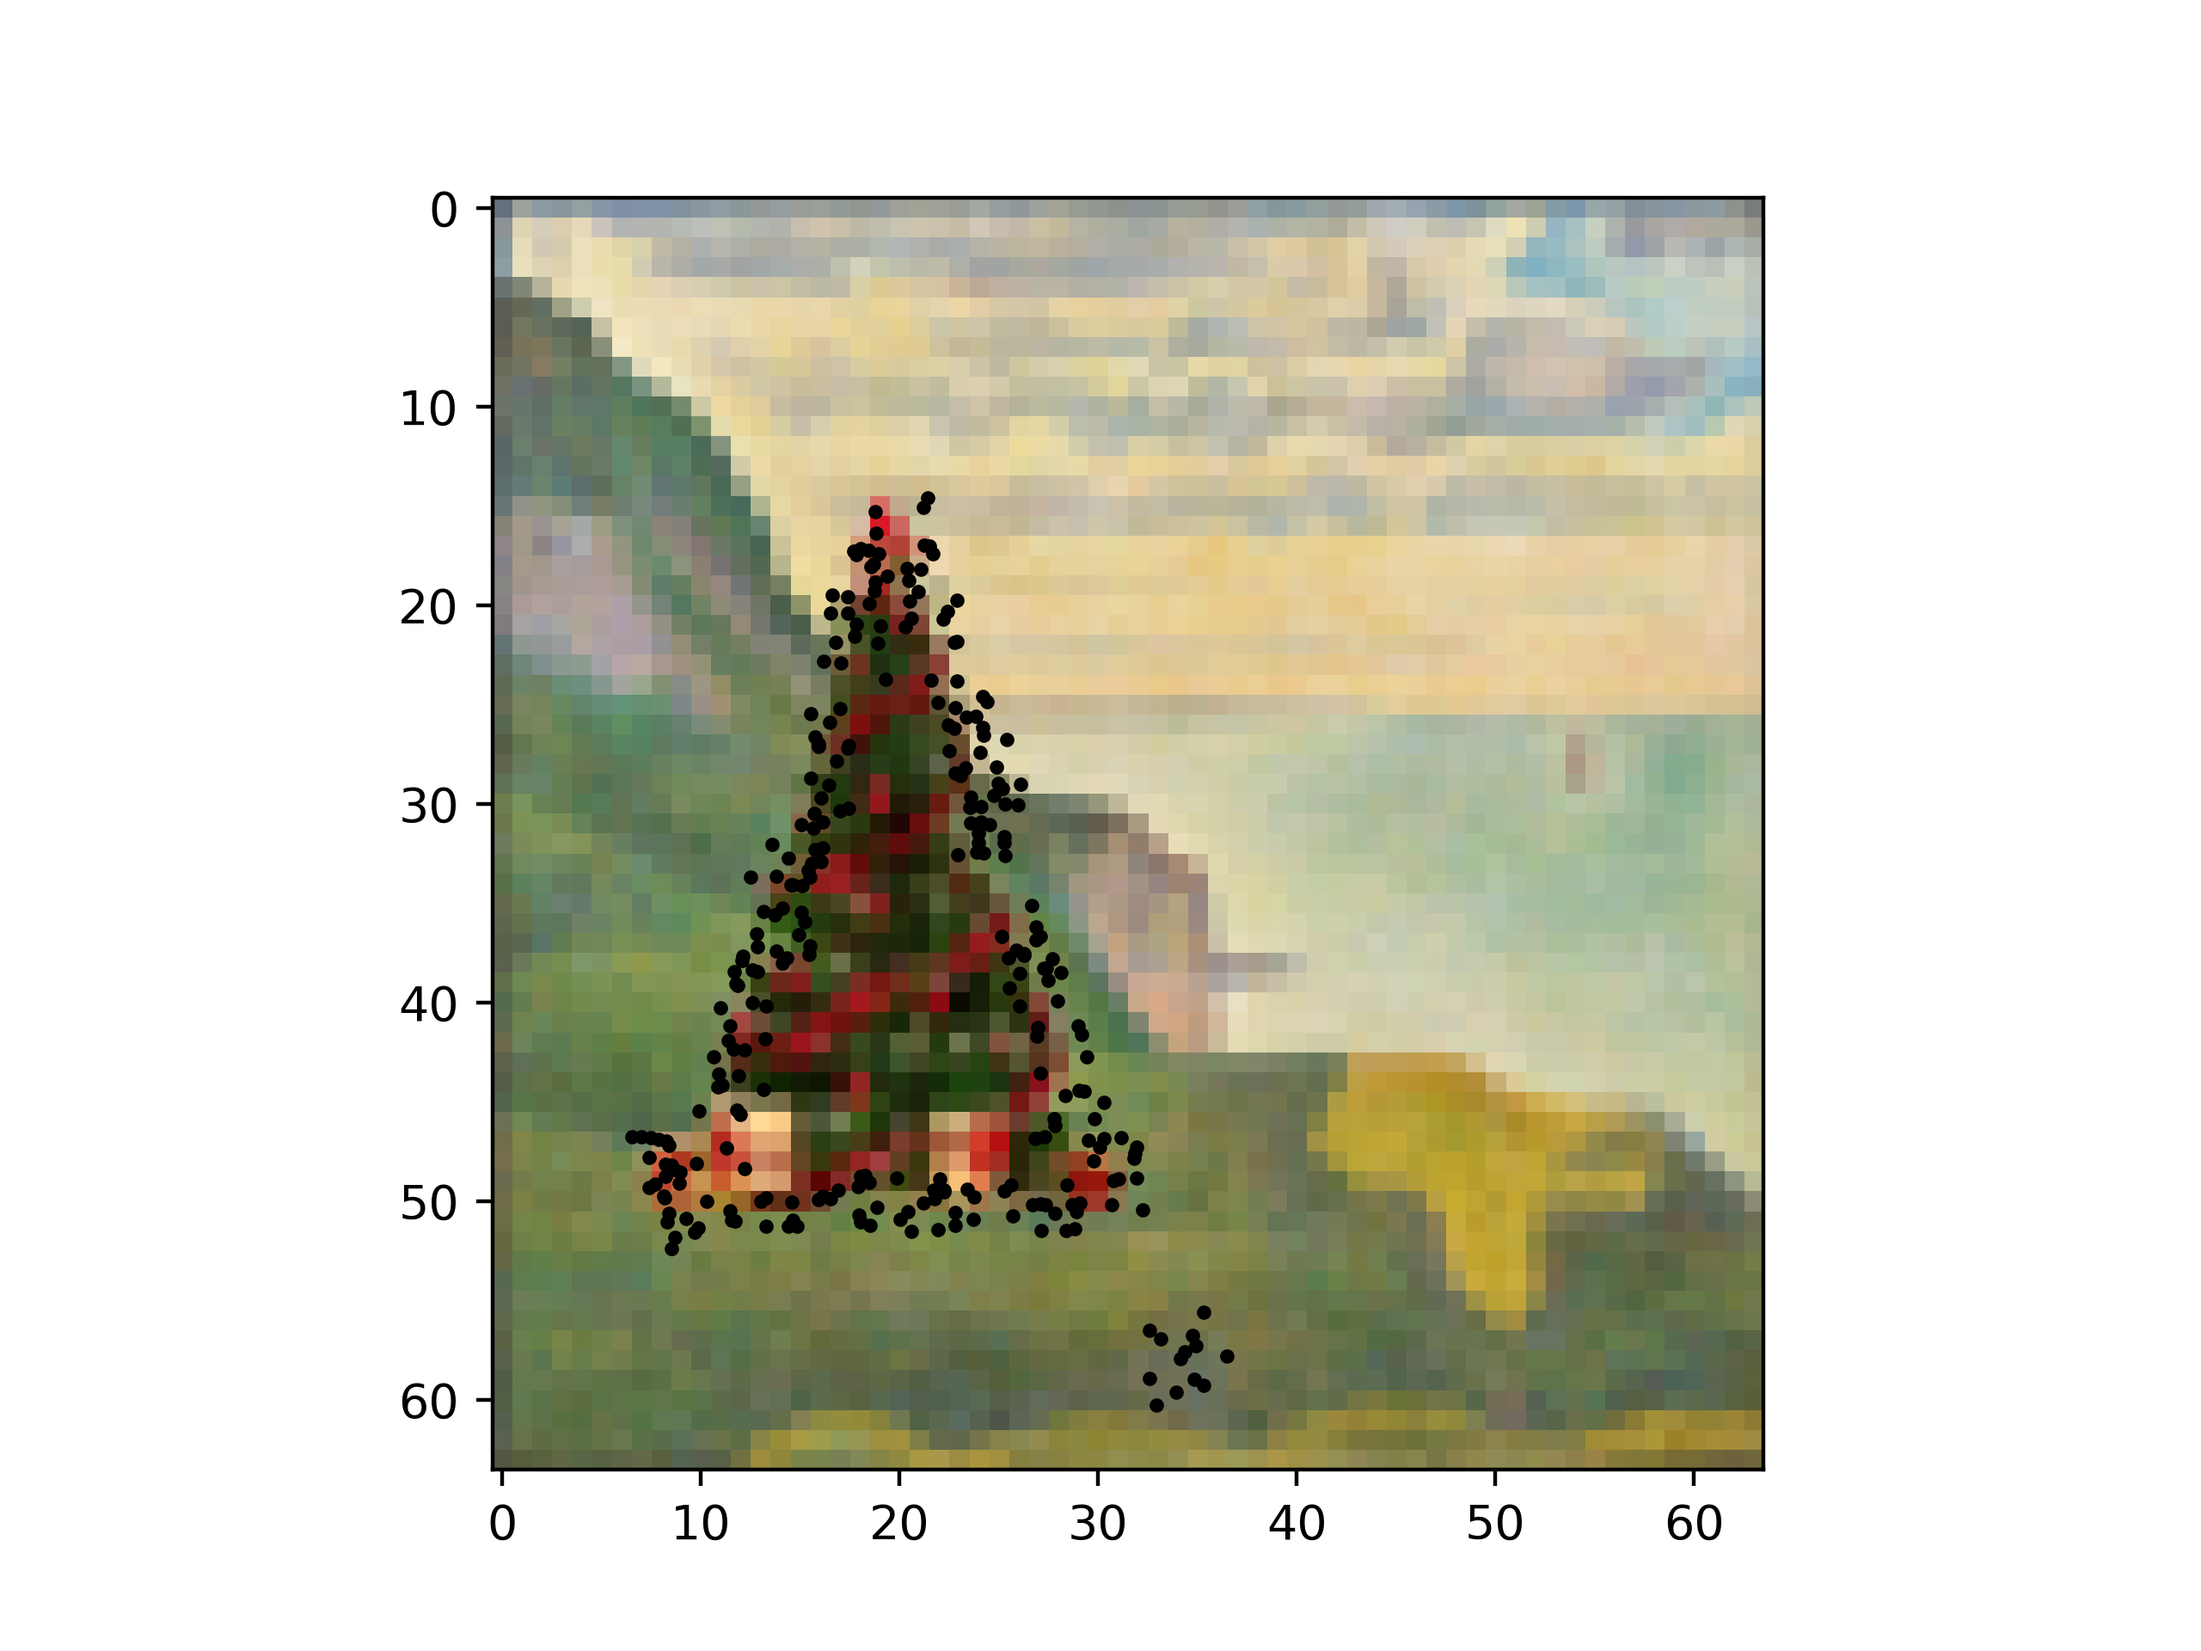
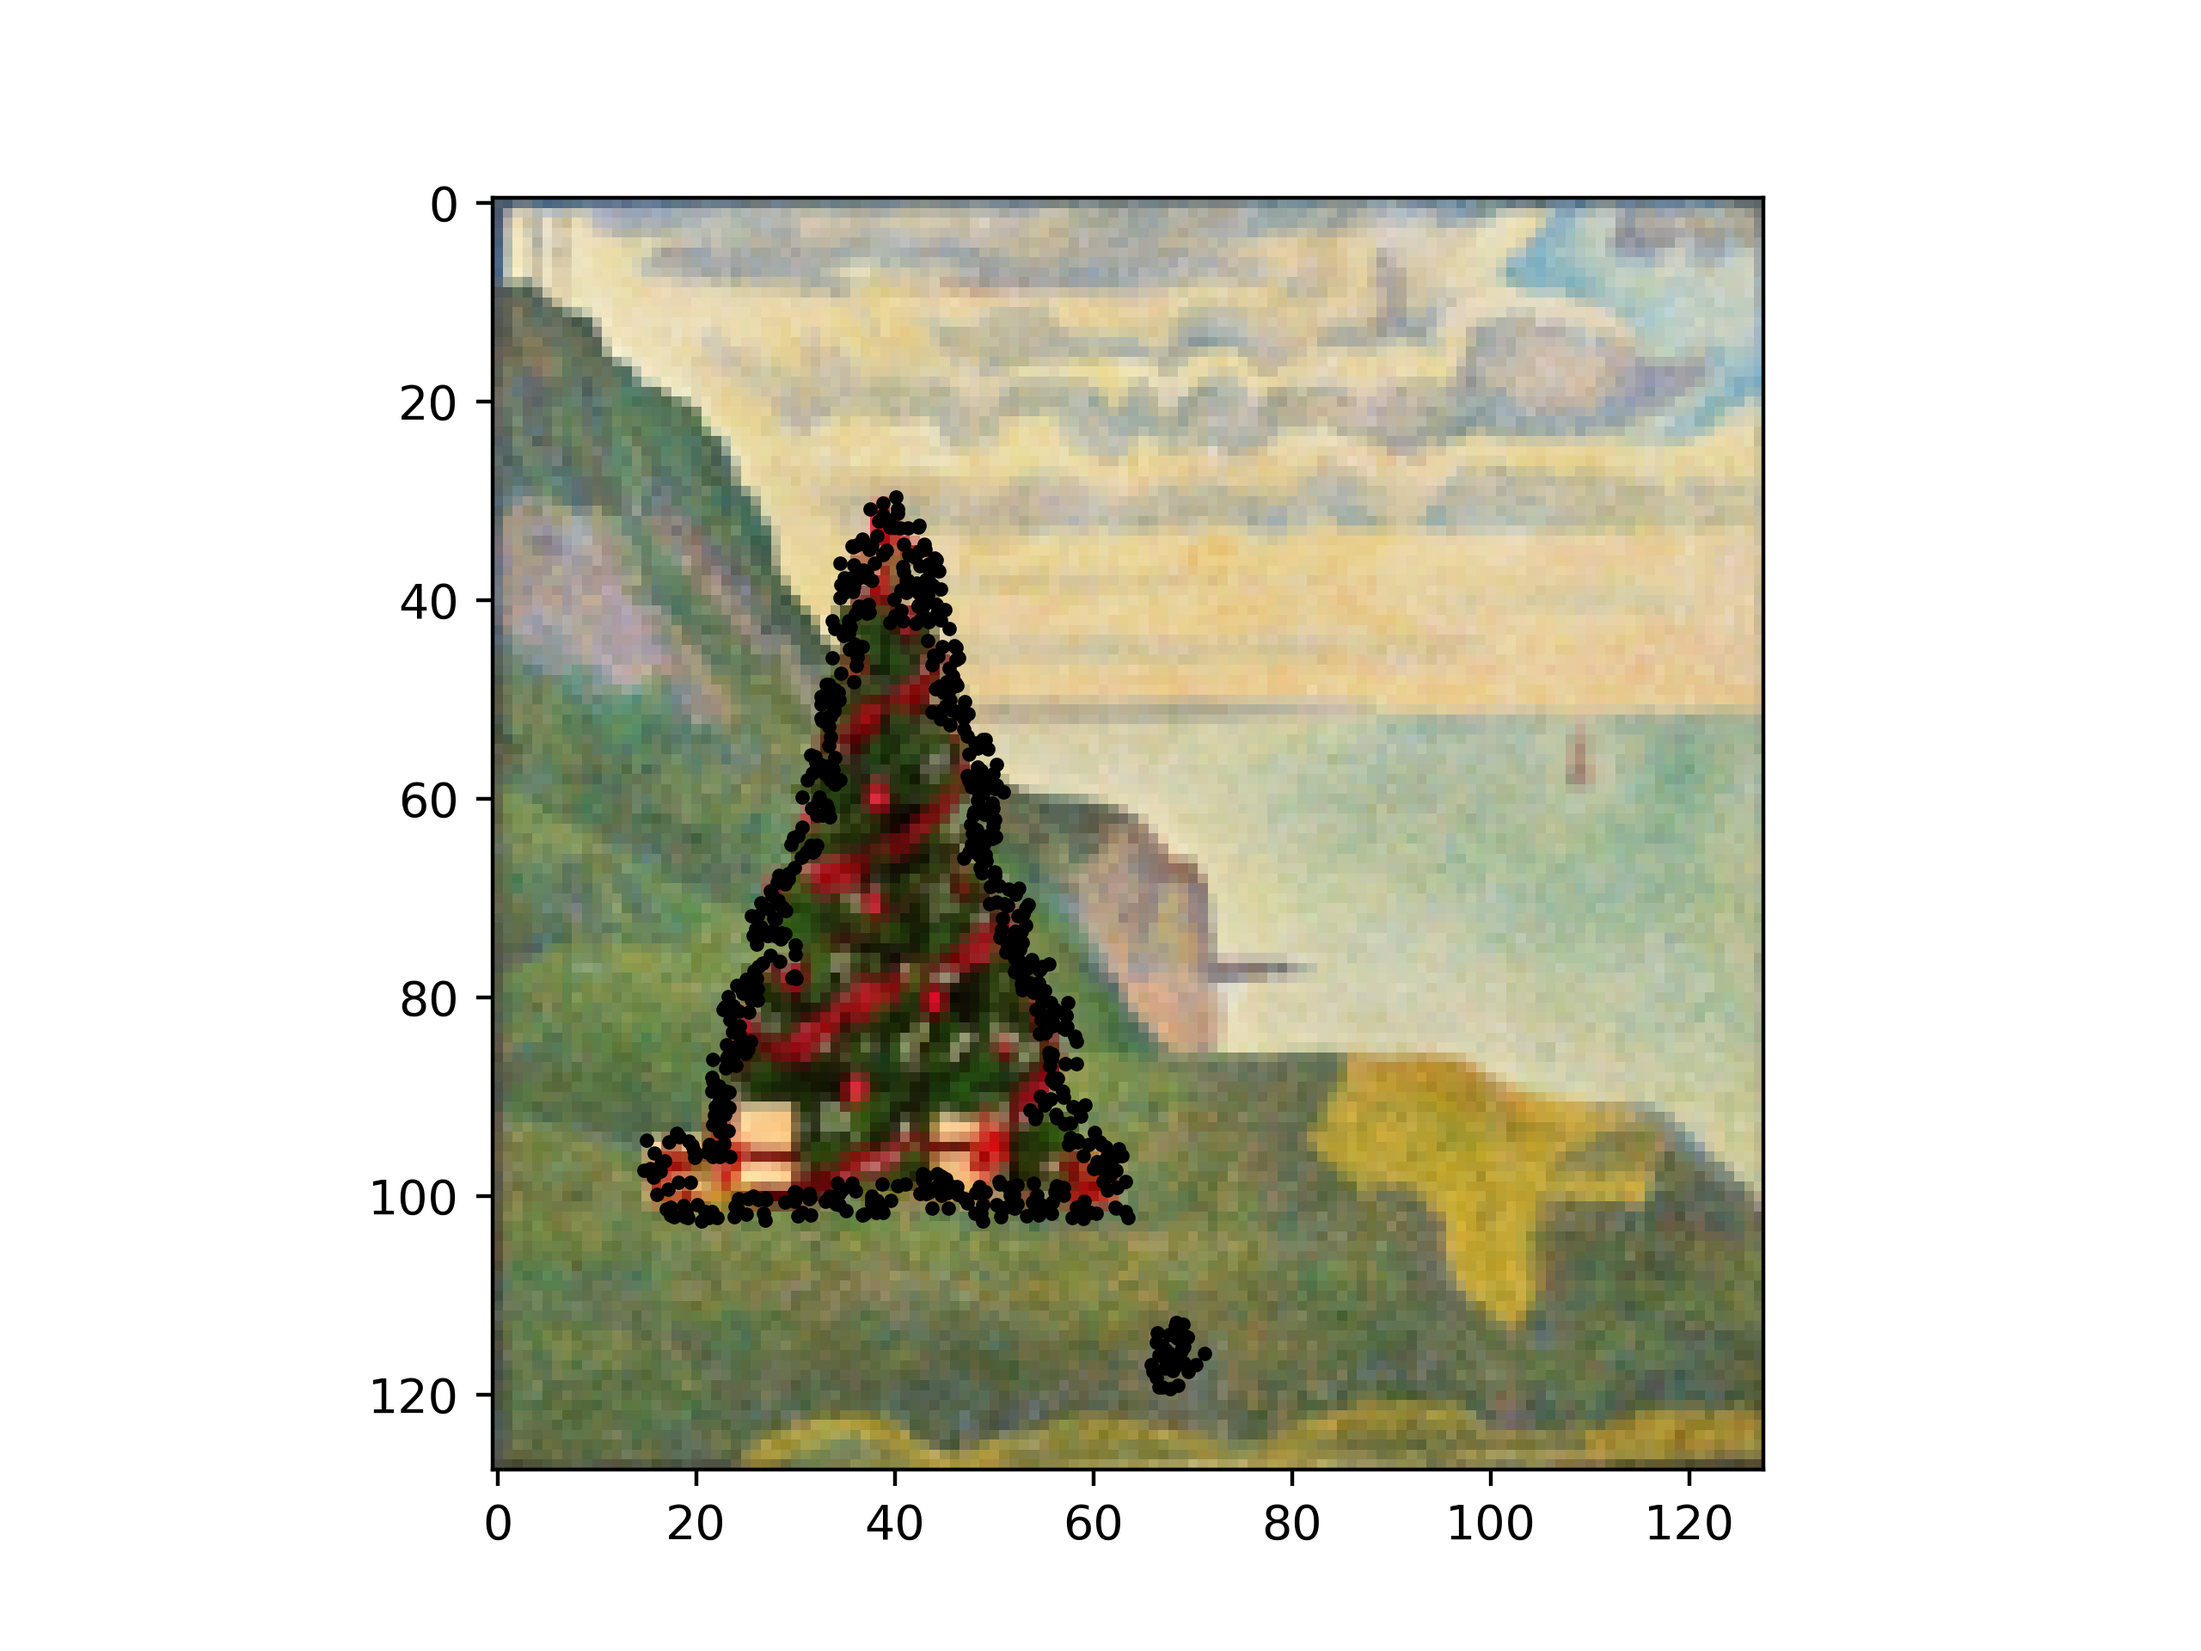
model modification

diff --git a/models/main.py b/models/main.py
@@ -3,8 +3,8 @@ import matplotlib.pyplot as plt
 from PIL import Image
 from pointGenerate import getpoint
 
-my_mask=np.asarray(Image.open("/workspace/images/image1.jpg").resize((64,64)))
-my_img=np.asarray(Image.open("/workspace/images/image2.jpg").resize((64,64)))
+my_mask=np.asarray(Image.open("/workspace/images/image1.jpg").resize((128,128)))
+my_img=np.asarray(Image.open("/workspace/images/image2.jpg").resize((128,128)))
 my_mask=my_mask[:,:,0]
 
 points=getpoint(my_mask,1,1,nearest_neighbor=1)

diff --git a/README.md b/README.md
@@ -5,9 +5,12 @@
 PointRend is image segmentation as rendering
 
 the PointRend neural network module performs point-based segementation predictions at adaptively selected locations based on 
-an iterative subvision algorithm. 
+an iterative subvision algorithm.
 
-this is implement a PointRend fuction for Segementation result refinement.
+PointRend achieves higher sharpness on tricky object boundaries such as fingers than Mask R-CNN, and can be added on both semantic and instance segmentation. 
+
+so this project show intermediate results.
+if you perform instance segmentation, 
 
 PointRend is done in the following steps:
 1. upload an image and mask image 
